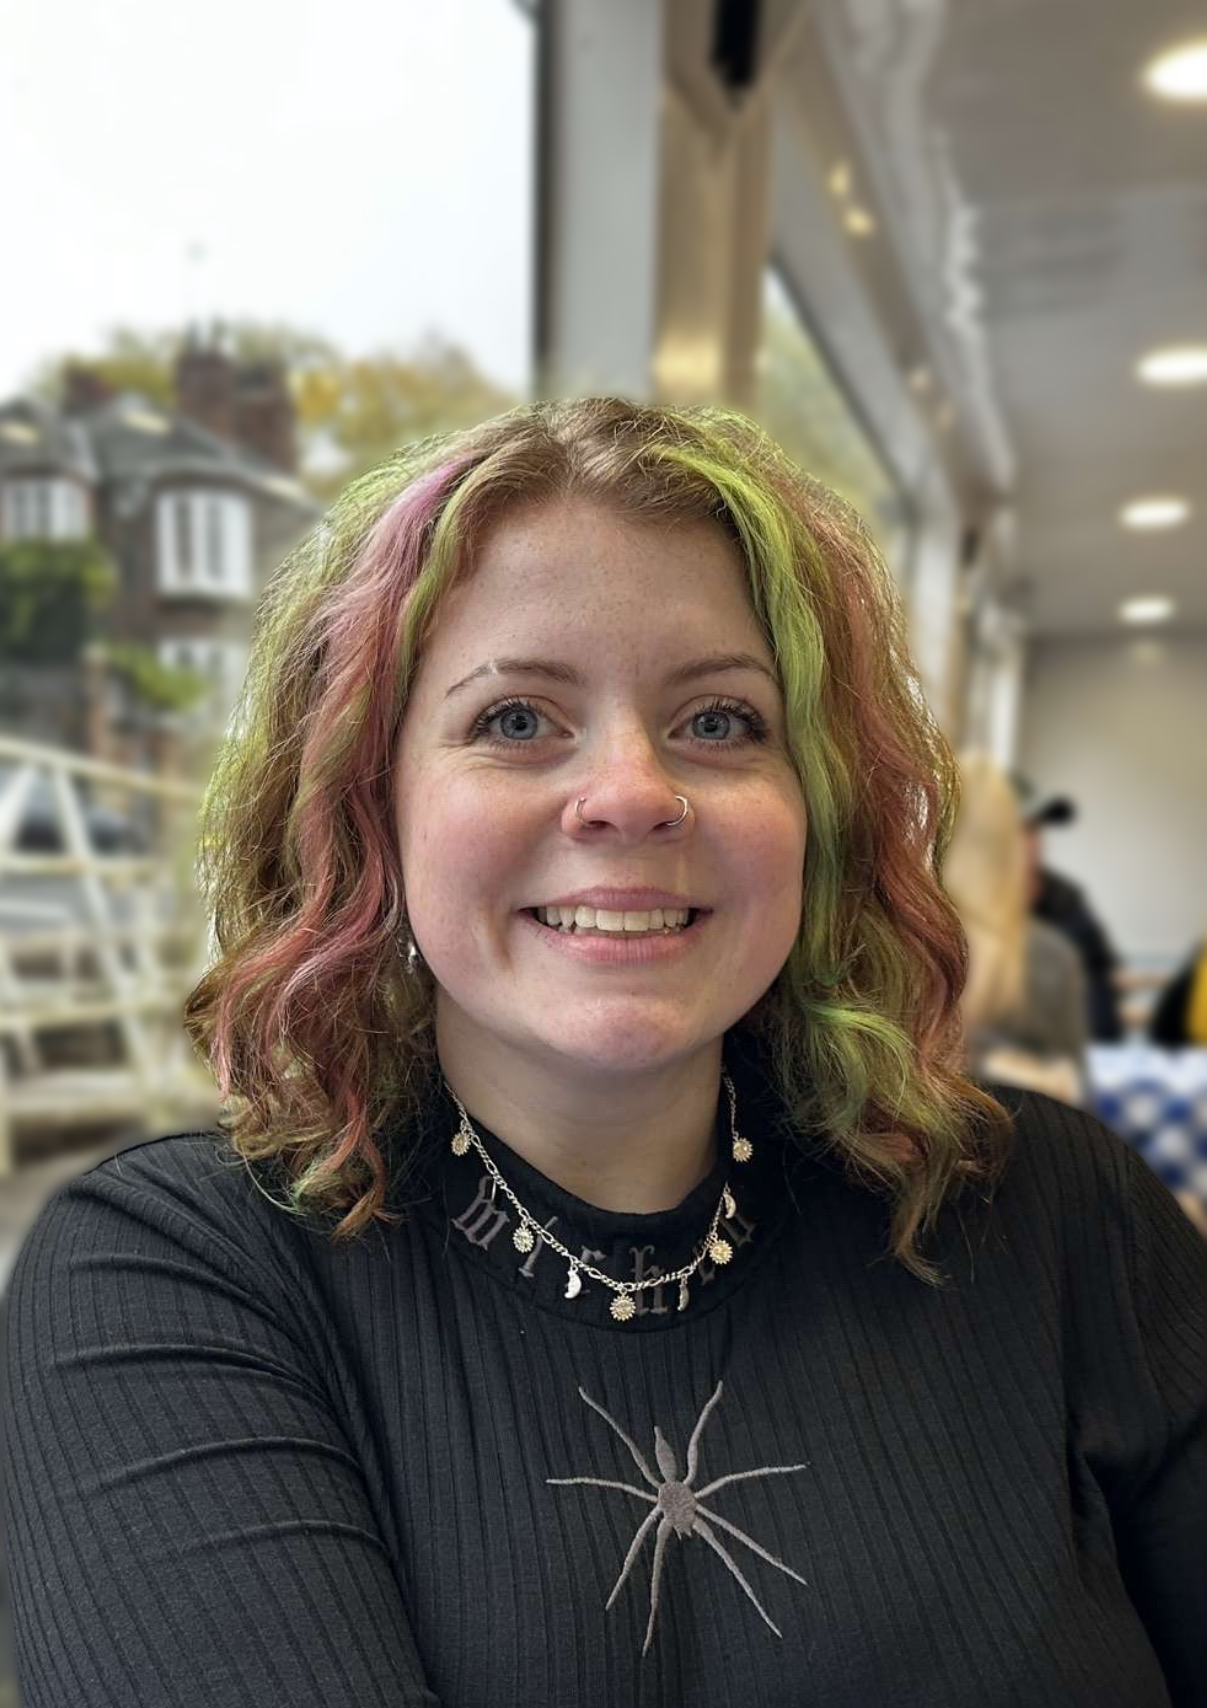
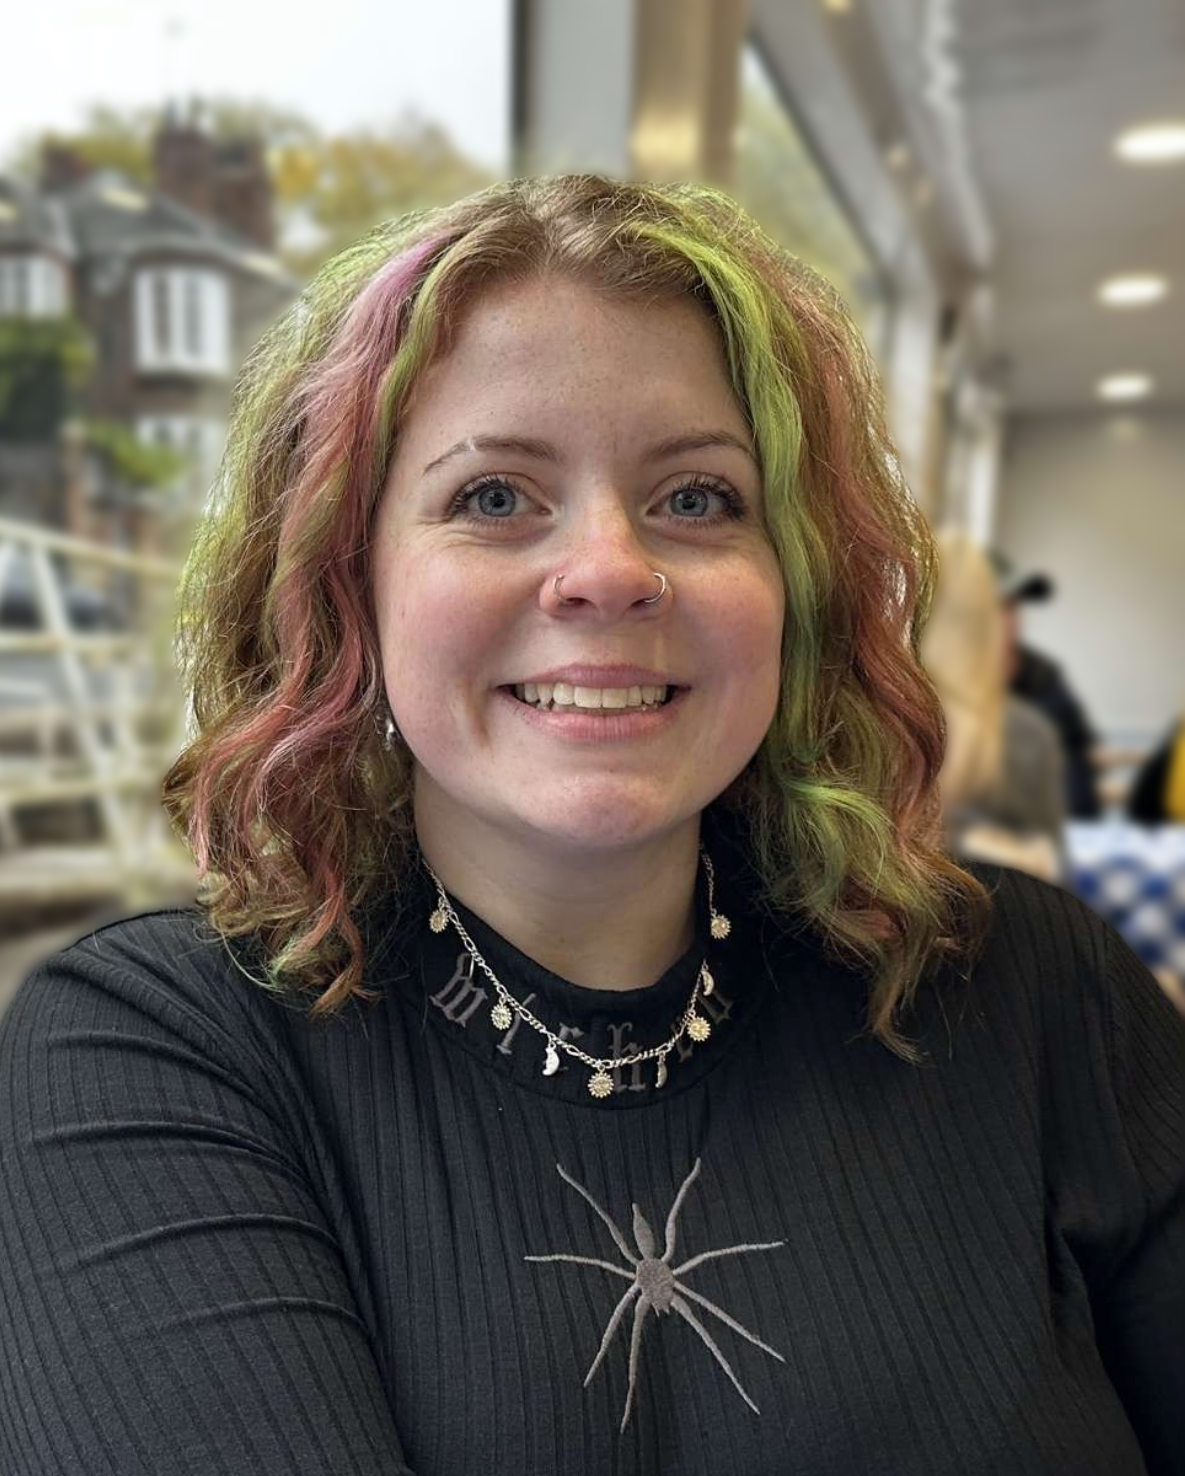
added profile pic

diff --git a/app/_components/About.tsx b/app/_components/About.tsx
@@ -8,9 +8,9 @@ const About: React.FC = () => {
     <h1 className="text titleFont">I&apos;m Holly.</h1>
       <div className="aboutMe text">
         <Image
-          src="/placeholder.jpg"
-          height="350"
-          width="300"
+          src="/headshot.PNG"
+          height="438"
+          width="350"
           alt=""
           className="profilePicture"
         />
